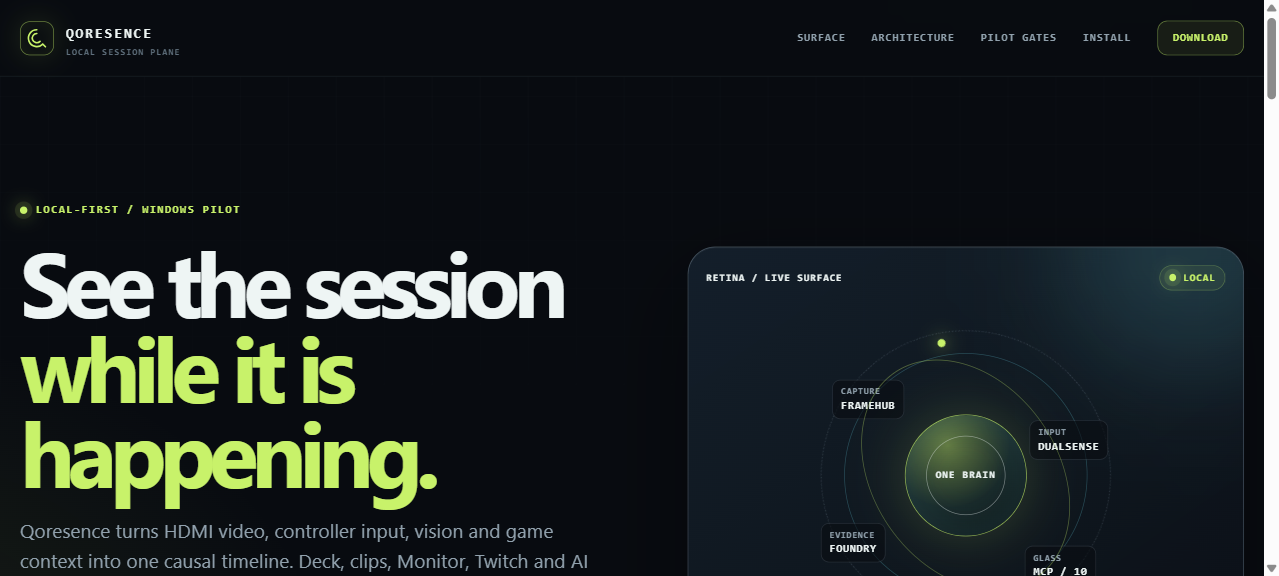
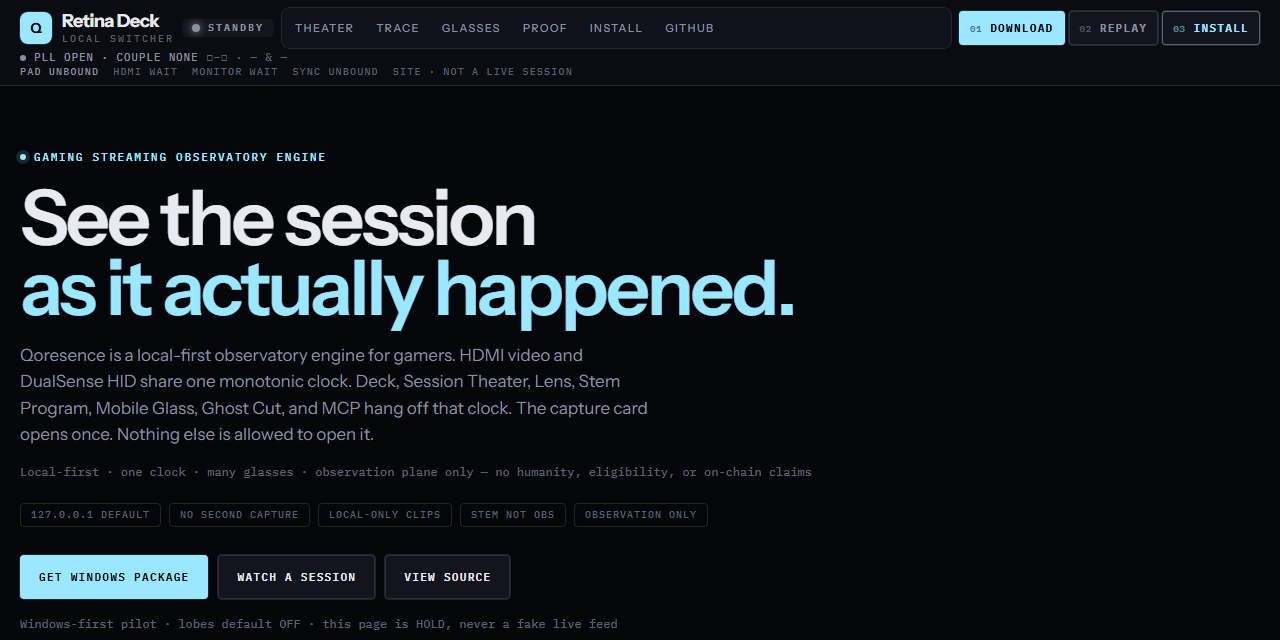
docs: replace README Pages PI with live Aperture Glass.
qoresence-pages.png was still the old phosphor homepage
("See the session while it is happening"). Recapture the live
GitHub Pages mast (HOLD command bar, aperture type, no fake LIVE).

Generated with [Devin](https://devin.ai)

diff --git a/README.md b/README.md
@@ -31,7 +31,7 @@ Every lobe is **OFF** until you opt in.
 
 <p align="center">
   <a href="https://conwan30.github.io/Qoresence/">
-    <img src="docs/assets/qoresence-pages.png" alt="Qoresence GitHub Pages website" width="1200">
+    <img src="docs/assets/qoresence-pages.png" alt="Qoresence GitHub Pages — Aperture Glass, HOLD command bar" width="1200">
   </a>
 </p>
 
